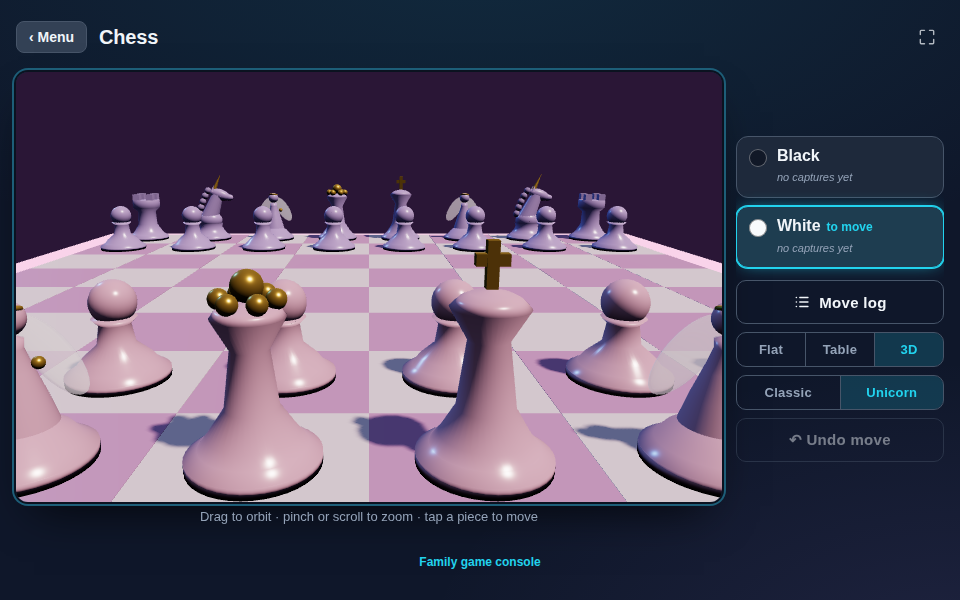
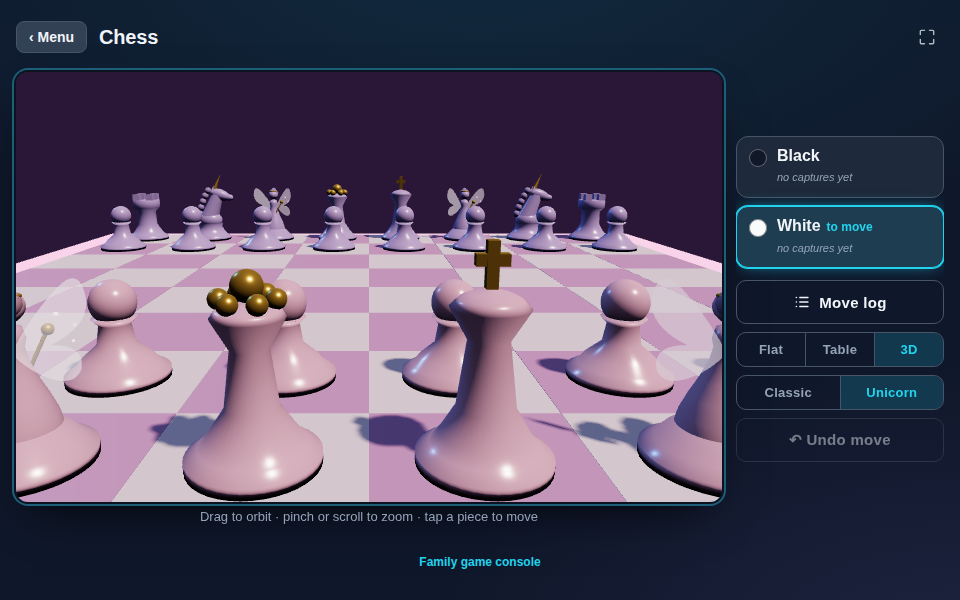
Unicorn theme: proper 3D faeries
The first faeries' wings were scaled sphere blobs — they read as puffs.
Rebuilt the figure properly:

- Real double-lobed gossamer wings: flat translucent silhouettes drawn
  as curves (like a butterfly's), splayed to face the viewer, softly
  glowing from both sides, mirrored as a pair and proudly oversized.
- A shaped gown (bell hem, drawn-in waist, bodice), hair in a bun in a
  deeper shade under the gold circlet, and a face turned toward the
  enemy.
- The golden wand is now a raised rod with a star at its tip, with a
  drift of sparkle dust trailing off it.

240 tests pass; typecheck + build clean; verified with portrait and
back-rank shots in a headless browser.

Claude-Session: https://claude.ai/code/session_01Pet5917XAbMAsbQM47tWg6

diff --git a/src/games/chess/components/three/ChessScene.ts b/src/games/chess/components/three/ChessScene.ts
@@ -376,7 +376,7 @@ function buildPiece(type: PieceType, mat: THREE.Material, black: boolean, accent
     }
     case 'b': {
       if (accent) {
-        buildFaerie(g, mat, accent);
+        buildFaerie(g, mat, accent, black);
         break;
       }
       g.add(lathe([...BASE, [0.10, 0.24], [0.075, 0.44], [0.12, 0.50], [0, 0.52]], mat));
@@ -492,45 +492,95 @@ function buildUnicorn(g: THREE.Group, mat: THREE.Material, accent: THREE.Materia
 }
 
 /**
- * The unicorn-theme bishop: a faerie — slender gown, a small head with a gold
- * circlet, and two gossamer wings that light passes through.
+ * The unicorn-theme bishop: a faerie facing her enemy — a gowned figure with
+ * hair in a bun under a gold circlet, REAL double-lobed gossamer wings (flat
+ * translucent silhouettes, like a butterfly's), a raised golden wand, and a
+ * drift of sparkle dust.
  */
-function buildFaerie(g: THREE.Group, mat: THREE.Material, accent: THREE.Material) {
-  g.add(lathe([...BASE, [0.11, 0.2]], mat));
+function buildFaerie(g: THREE.Group, mat: THREE.Material, accent: THREE.Material, black: boolean) {
+  // White sits at +z facing -z; wings go on the back, wand out the front.
+  const back = black ? -1 : 1;
 
-  // The gown — a gentle A-line from base to shoulders.
-  g.add(lathe([[0.155, 0.18], [0.12, 0.3], [0.08, 0.42], [0.05, 0.52], [0.055, 0.56], [0, 0.58]], mat));
+  g.add(lathe([...BASE, [0.12, 0.19]], mat));
 
-  // Head with a golden circlet.
-  g.add(ball(0.075, 0.65, mat));
-  const circlet = new THREE.Mesh(new THREE.TorusGeometry(0.055, 0.012, 8, 20), accent);
-  circlet.position.y = 0.695;
-  circlet.rotation.x = Math.PI / 2 - 0.25;
+  // The gown — bell hem, drawn-in waist, small bodice and shoulders.
+  g.add(lathe([
+    [0.165, 0.17], [0.155, 0.22], [0.125, 0.3], [0.09, 0.38], [0.062, 0.46],
+    [0.052, 0.52], [0.062, 0.56], [0.052, 0.61], [0, 0.63],
+  ], mat));
+
+  // Head, hair (a deeper shade) swept into a bun, and the golden circlet.
+  g.add(ball(0.072, 0.70, mat));
+  const bodyColor = (mat as THREE.MeshStandardMaterial).color;
+  const hairMat = new THREE.MeshStandardMaterial({ color: bodyColor.clone().multiplyScalar(0.66), roughness: 0.55 });
+  const hair = ball(0.076, 0.715, hairMat);
+  hair.scale.set(1, 0.92, 1);
+  hair.position.z = back * 0.018;
+  g.add(hair);
+  const face = ball(0.062, 0.695, mat);
+  face.position.z = -back * 0.028;
+  g.add(face);
+  const bun = ball(0.034, 0.77, hairMat);
+  bun.position.z = back * 0.045;
+  g.add(bun);
+  const circlet = new THREE.Mesh(new THREE.TorusGeometry(0.056, 0.011, 8, 22), accent);
+  circlet.position.y = 0.745;
+  circlet.rotation.x = Math.PI / 2 - 0.12;
   circlet.castShadow = true;
   g.add(circlet);
 
-  // Gossamer wings — translucent, softly glowing, catching light both sides.
+  // Real fairy wings: a flat silhouette with a big upper lobe and a small
+  // lower lobe, translucent and softly glowing from both sides.
+  const wingShape = new THREE.Shape();
+  wingShape.moveTo(0, 0);
+  wingShape.quadraticCurveTo(0.10, 0.10, 0.20, 0.16);
+  wingShape.quadraticCurveTo(0.30, 0.22, 0.28, 0.10);
+  wingShape.quadraticCurveTo(0.26, 0.0, 0.12, -0.02);
+  wingShape.quadraticCurveTo(0.22, -0.06, 0.18, -0.14);
+  wingShape.quadraticCurveTo(0.13, -0.20, 0.05, -0.10);
+  wingShape.quadraticCurveTo(0.015, -0.05, 0, 0);
+  const wingGeo = new THREE.ShapeGeometry(wingShape, 18);
   const wingMat = new THREE.MeshStandardMaterial({
-    color: '#ffffff',
+    color: '#f6f8ff',
     transparent: true,
-    opacity: 0.5,
-    roughness: 0.15,
+    opacity: 0.68,
+    roughness: 0.12,
     side: THREE.DoubleSide,
     emissive: '#ffd9f2',
-    emissiveIntensity: 0.3,
+    emissiveIntensity: 0.55,
     depthWrite: false,
   });
   for (const side of [-1, 1]) {
-    const wing = new THREE.Mesh(new THREE.SphereGeometry(0.16, 18, 14), wingMat);
-    wing.scale.set(0.55, 1.35, 0.12);
-    wing.position.set(side * 0.14, 0.47, -0.06);
-    wing.rotation.z = side * 0.55;
-    wing.rotation.y = side * 0.25;
+    const wing = new THREE.Mesh(wingGeo, wingMat);
+    // Mirror the pair and make them proudly oversized.
+    wing.scale.set(side * 1.2, 1.2, 1);
+    wing.position.set(side * 0.035, 0.52, back * 0.055);
+    // Splayed mostly outward (visible from the front), a gentle sweep back
+    // and an upward rake.
+    wing.rotation.set(back * -0.12, back * side * 0.5, side * 0.3);
     g.add(wing);
   }
 
-  // A tiny golden wand-star held at the side.
-  const star = ball(0.028, 0.46, accent);
-  star.position.x = 0.11;
+  // The golden wand, raised in front, with a star at its tip.
+  const wand = new THREE.Mesh(new THREE.CylinderGeometry(0.009, 0.009, 0.2, 8), accent);
+  wand.position.set(0.085, 0.5, -back * 0.055);
+  wand.rotation.z = -0.5;
+  wand.castShadow = true;
+  g.add(wand);
+  const star = ball(0.026, 0.59, accent);
+  star.position.set(0.135, 0.59, -back * 0.055);
   g.add(star);
+
+  // A drift of sparkle dust trailing off the wand.
+  const dustMat = new THREE.MeshStandardMaterial({ color: '#fff3fb', emissive: '#ffc9ec', emissiveIntensity: 0.9 });
+  const dust: [number, number, number, number][] = [
+    [0.19, 0.66, -back * 0.03, 0.012],
+    [0.24, 0.60, -back * 0.08, 0.009],
+    [0.21, 0.52, -back * 0.11, 0.007],
+  ];
+  for (const [dx, dy, dz, r] of dust) {
+    const mote = ball(r, dy, dustMat);
+    mote.position.set(dx, dy, dz);
+    g.add(mote);
+  }
 }
